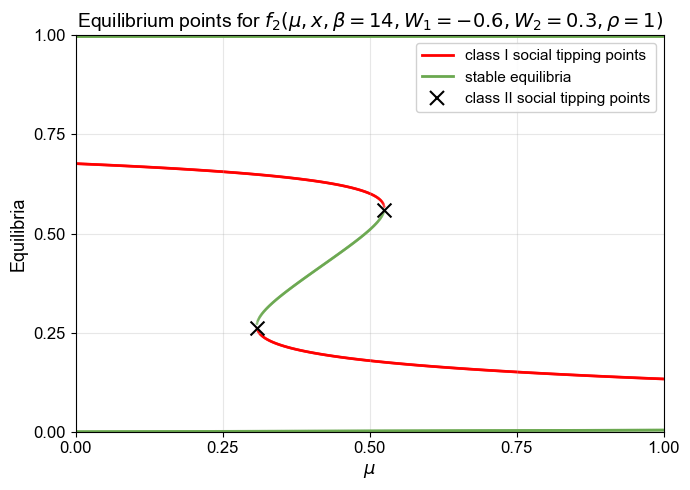
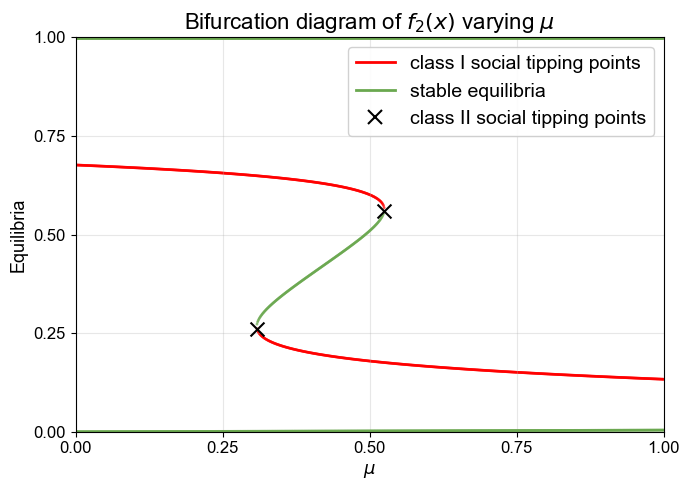
Adjusted bifurcation diagrams and combined to one panel

diff --git a/combine_figures.py b/combine_figures.py
@@ -1,0 +1,46 @@
+from pathlib import Path
+
+try:
+    from PIL import Image
+except ImportError as exc:
+    raise SystemExit(
+        "Pillow is required to run this script. Install it with `pip install pillow`." 
+        + f"\nOriginal error: {exc}"
+    )
+
+SOURCE_FILES = [
+    Path("figures/bifurcation_mu.png"),
+    Path("figures/bifurcation_beta_mu04.png"),
+    Path("figures/bifurcation_W1_mu04.png"),
+    Path("figures/bifurcation_rho_mu04.png"),
+]
+OUTPUT_FILE = Path("figures/bifurcation_panel.png")
+
+
+def combine_panel(source_files, output_file):
+    existing_files = [p for p in source_files if p.exists()]
+    missing_files = [p for p in source_files if not p.exists()]
+    if missing_files:
+        raise FileNotFoundError(
+            f"Missing source files: {', '.join(str(p) for p in missing_files)}"
+        )
+
+    images = [Image.open(path) for path in source_files]
+    widths, heights = zip(*(img.size for img in images))
+    target_width = min(widths)
+    target_height = min(heights)
+    images = [img.resize((target_width, target_height), Image.LANCZOS) for img in images]
+
+    combined = Image.new("RGB", (target_width * 2, target_height * 2), (255, 255, 255))
+    combined.paste(images[0], (0, 0))
+    combined.paste(images[1], (target_width, 0))
+    combined.paste(images[2], (0, target_height))
+    combined.paste(images[3], (target_width, target_height))
+
+    output_file.parent.mkdir(parents=True, exist_ok=True)
+    combined.save(output_file, dpi=(100, 100))
+    print(f"Created combined image: {output_file}")
+
+
+if __name__ == "__main__":
+    combine_panel(SOURCE_FILES, OUTPUT_FILE)

diff --git a/bifurcation_W1.py b/bifurcation_W1.py
@@ -118,7 +118,7 @@ def generate_diagram(output_path='figures/bifurcation_W1.png', mu_value=0.54):
     """Generate bifurcation diagram for varying W₁."""
     params = DEFAULT_PARAMS.copy()
     params['mu'] = mu_value
-    param_range = (-2, 1)
+    param_range = (-1.5, 1.5)
     n_points = 1000
     n_guess = 200
     
@@ -159,14 +159,12 @@ def generate_diagram(output_path='figures/bifurcation_W1.png', mu_value=0.54):
     
     ax.set_xlabel(r'$W_1$', fontsize=13)
     ax.set_ylabel('Equilibria', fontsize=13)
-    title_mu = params['mu']
-    ax.set_title(r'Equilibrium points for $f_2(\mu=' + f'{title_mu}' + r', x, \beta=14, W_1, W_2=0.3, \rho=1)$', 
-                 fontsize=14)
+    ax.set_title(r'Bifurcation diagram of $f_2(x)$ varying $W_1$', fontsize=16)
     ax.set_xlim(param_range)
     ax.set_ylim(0, 1)
     ax.tick_params(axis='both', labelsize=12)
     
-    ax.set_xticks(np.arange(-2, 1.01, 0.5))
+    ax.set_xticks(np.arange(-1.5, 1.51, 0.5))
     ax.set_yticks(np.arange(0, 1.01, 0.25))
     
     legend_elements = [
@@ -175,7 +173,7 @@ def generate_diagram(output_path='figures/bifurcation_W1.png', mu_value=0.54):
         Line2D([0], [0], color='black', marker='x', markersize=10, markeredgewidth=1.5,
                linestyle='None', label='class II social tipping points')
     ]
-    ax.legend(handles=legend_elements, loc='lower right', fontsize=11, framealpha=0.9)
+    ax.legend(handles=legend_elements, loc='lower right', fontsize=14, framealpha=0.9)
     
     ax.grid(True, alpha=0.3)
     plt.tight_layout()

diff --git a/bifurcation_beta.py b/bifurcation_beta.py
@@ -118,7 +118,7 @@ def generate_diagram(output_path='figures/bifurcation_beta.png', mu_value=0.54):
     """Generate bifurcation diagram for varying β."""
     params = DEFAULT_PARAMS.copy()
     params['mu'] = mu_value
-    param_range = (0.001, 25)
+    param_range = (0, 14)
     n_points = 1000
     n_guess = 200
     
@@ -159,14 +159,12 @@ def generate_diagram(output_path='figures/bifurcation_beta.png', mu_value=0.54):
     
     ax.set_xlabel(r'$\beta$', fontsize=13)
     ax.set_ylabel('Equilibria', fontsize=13)
-    title_mu = params['mu']
-    ax.set_title(r'Equilibrium points for $f_2(\mu=' + f'{title_mu}' + r', x, \beta, W_1=-0.6, W_2=0.3, \rho=1)$', 
-                 fontsize=14)
+    ax.set_title(r'Bifurcation diagram of $f_2(x)$ varying $\beta$', fontsize=16)
     ax.set_xlim(param_range)
     ax.set_ylim(0, 1)
     ax.tick_params(axis='both', labelsize=12)
     
-    ax.set_xticks(np.arange(0, 26, 5))
+    ax.set_xticks(np.arange(0, 15, 2))
     ax.set_yticks(np.arange(0, 1.01, 0.25))
     
     legend_elements = [
@@ -175,7 +173,7 @@ def generate_diagram(output_path='figures/bifurcation_beta.png', mu_value=0.54):
         Line2D([0], [0], color='black', marker='x', markersize=10, markeredgewidth=1.5,
                linestyle='None', label='class II social tipping points')
     ]
-    ax.legend(handles=legend_elements, loc='upper right', fontsize=11, framealpha=0.9)
+    ax.legend(handles=legend_elements, loc='upper right', fontsize=14, framealpha=0.9)
     
     ax.grid(True, alpha=0.3)
     plt.tight_layout()

diff --git a/bifurcation_rho.py b/bifurcation_rho.py
@@ -170,9 +170,7 @@ def generate_diagram(output_path='figures/bifurcation_rho.png', mu_value=0.54):
     
     ax.set_xlabel(r'$\rho$', fontsize=13)
     ax.set_ylabel('Equilibria', fontsize=13)
-    title_mu = params['mu']
-    ax.set_title(r'Equilibrium points for $f_2(\mu=' + f'{title_mu}' + r', x, \beta=14, W_1=-0.6, W_2=0.3, \rho)$', 
-                 fontsize=14)
+    ax.set_title(r'Bifurcation diagram of $f_2(x)$ varying $\rho$', fontsize=16)
     ax.set_xlim(param_range)
     ax.set_ylim(0, 1)
     ax.tick_params(axis='both', labelsize=12)
@@ -186,7 +184,7 @@ def generate_diagram(output_path='figures/bifurcation_rho.png', mu_value=0.54):
         Line2D([0], [0], color='black', marker='x', markersize=10, markeredgewidth=1.5,
                linestyle='None', label='class II social tipping points')
     ]
-    ax.legend(handles=legend_elements, loc='upper right', fontsize=11, framealpha=0.9)
+    ax.legend(handles=legend_elements, loc='upper right', fontsize=14, framealpha=0.9)
     
     ax.grid(True, alpha=0.3)
     plt.tight_layout()

diff --git a/bifurcation_mu.py b/bifurcation_mu.py
@@ -209,8 +209,7 @@ def generate_diagram(output_path='figures/bifurcation_mu.png'):
     # Labels and title (reduced font sizes)
     ax.set_xlabel(r'$\mu$', fontsize=13)
     ax.set_ylabel('Equilibria', fontsize=13)
-    ax.set_title(r'Equilibrium points for $f_2(\mu, x, \beta=14, W_1=-0.6, W_2=0.3, \rho=1)$', 
-                 fontsize=14)
+    ax.set_title(r'Bifurcation diagram of $f_2(x)$ varying $\mu$', fontsize=16)
     ax.set_xlim(param_range)
     ax.set_ylim(0, 1)
     ax.tick_params(axis='both', labelsize=12)
@@ -226,7 +225,7 @@ def generate_diagram(output_path='figures/bifurcation_mu.png'):
         Line2D([0], [0], color='black', marker='x', markersize=10, markeredgewidth=1.5,
                linestyle='None', label='class II social tipping points')
     ]
-    ax.legend(handles=legend_elements, loc='upper right', fontsize=11, framealpha=0.9)
+    ax.legend(handles=legend_elements, loc='upper right', fontsize=14, framealpha=0.9)
     
     ax.grid(True, alpha=0.3)
     plt.tight_layout()
